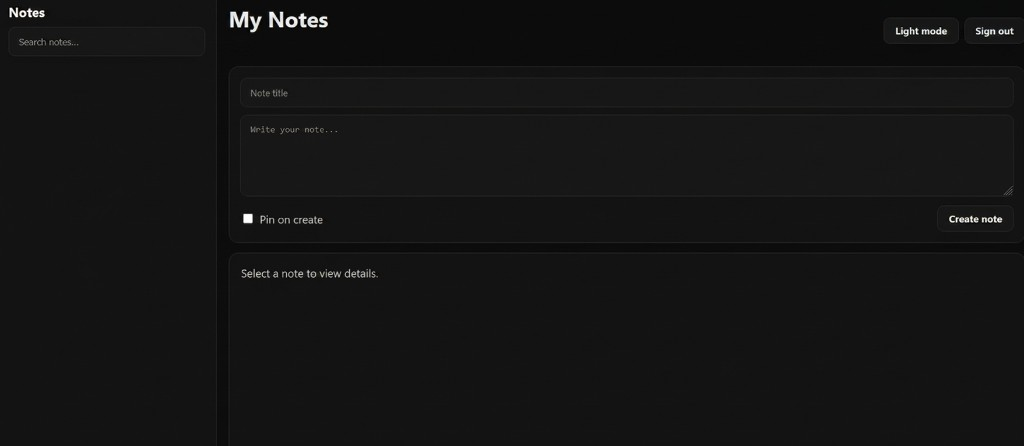
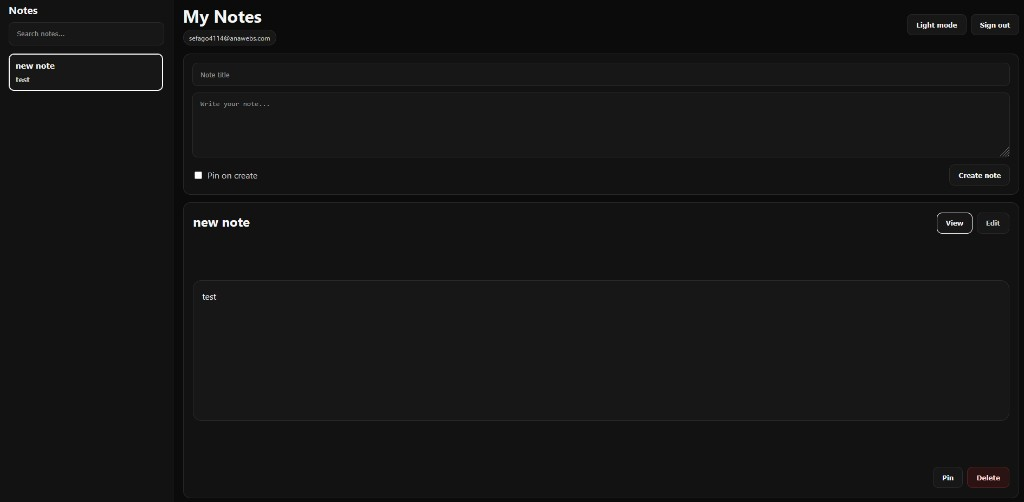
Readme edit

diff --git a/README.md b/README.md
@@ -2,6 +2,14 @@
 
 Full-stack notes application: **ASP.NET Core** REST API, **PostgreSQL** with **Entity Framework Core**, **JWT** access and refresh tokens, and a **React (Vite)** client.
 
+## Screenshots
+
+Dark theme: sign-in / register, then the notes workspace (sidebar, search, create, view & edit, pin, delete, theme toggle, sign out).
+
+![Sign-in and register](docs/screenshots/auth-sign-in.png)
+
+![Notes workspace with a selected note](docs/screenshots/notes-main.png)
+
 ---
 
 ## English
@@ -13,16 +21,6 @@ Full-stack notes application: **ASP.NET Core** REST API, **PostgreSQL** with **E
 - Optional pinning and search in the web client
 - CORS enabled for the Vite dev server (`http://localhost:5173`)
 - In **Development**, OpenAPI and a **Scalar** API reference UI are mapped from the API project
-
-### Screenshots
-
-Sign-in and registration (dark theme):
-
-![Sign-in screen](docs/screenshots/auth-sign-in.png)
-
-Notes workspace — create, search, pin, and theme toggle:
-
-![My Notes main screen](docs/screenshots/notes-main.png)
 
 ### Repository layout
 
@@ -111,16 +109,6 @@ dotnet test Notes.Tests/Notes.Tests.csproj
 - В веб-клиенте: закрепление заметок и поиск по тексту
 - CORS для dev-сервера Vite (`http://localhost:5173`)
 - В среде **Development** доступны OpenAPI и документация **Scalar** из проекта API
-
-### Скриншоты
-
-Вход и регистрация (тёмная тема):
-
-![Экран входа](docs/screenshots/auth-sign-in.png)
-
-Рабочая область заметок — создание, поиск, закрепление и переключение темы:
-
-![Главный экран «Мои заметки»](docs/screenshots/notes-main.png)
 
 ### Структура репозитория
 
